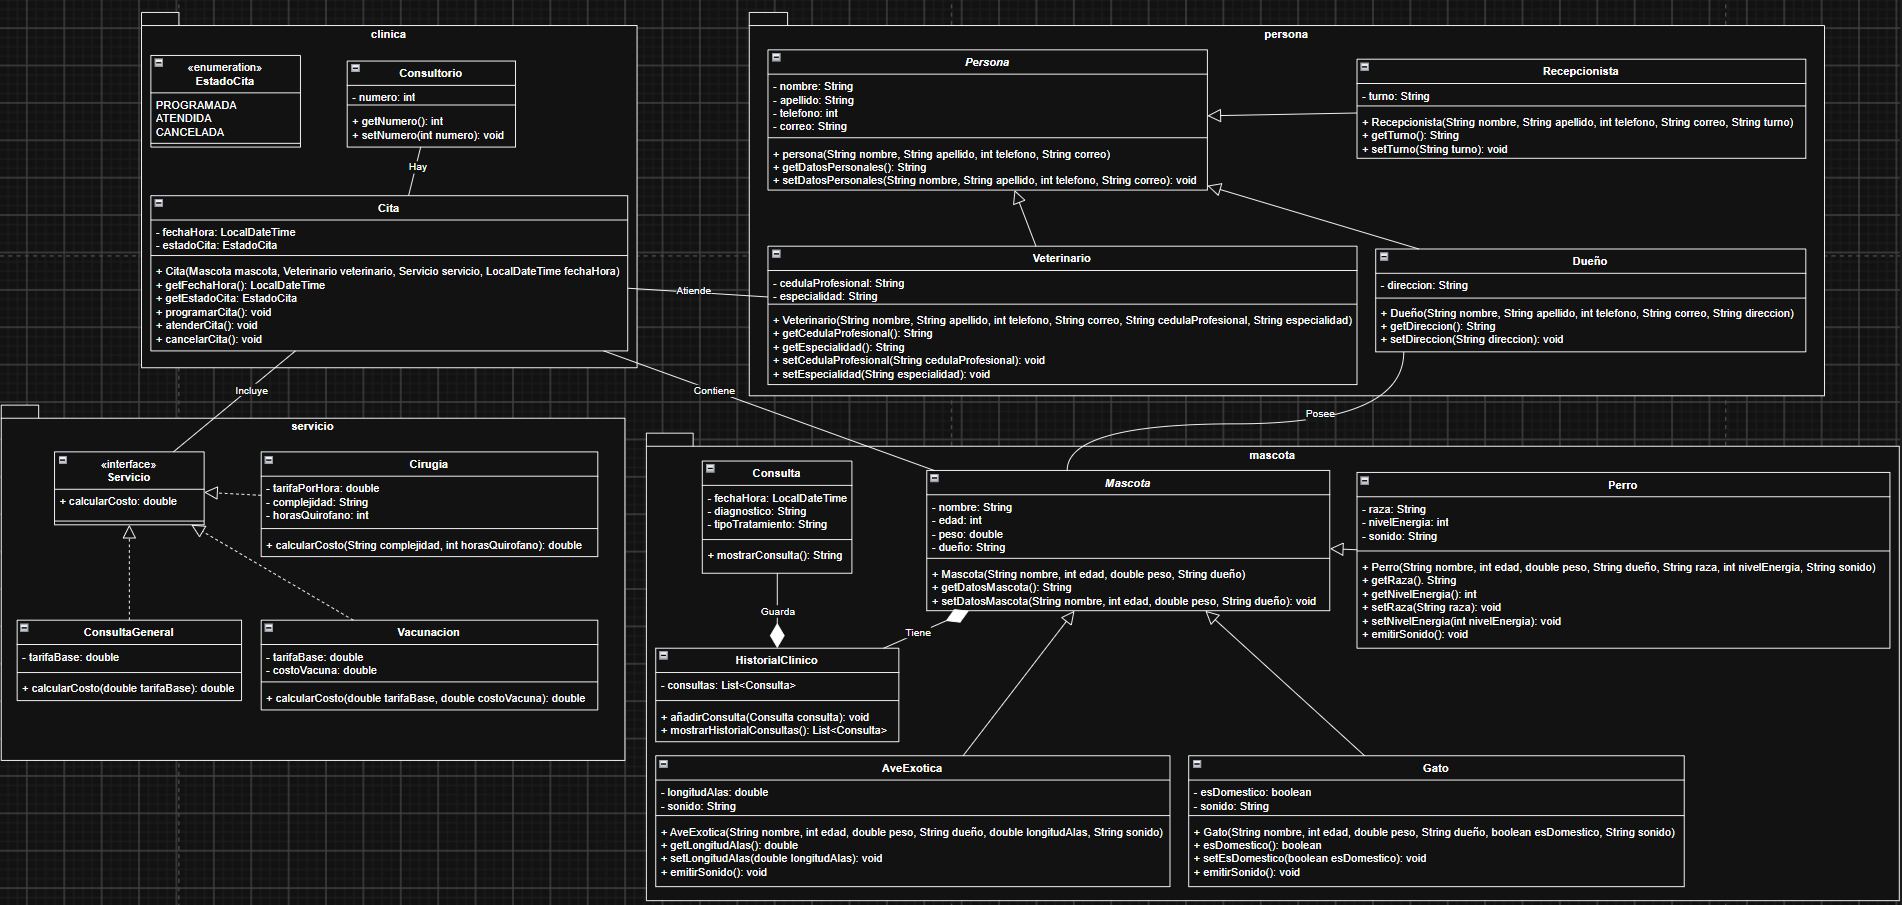
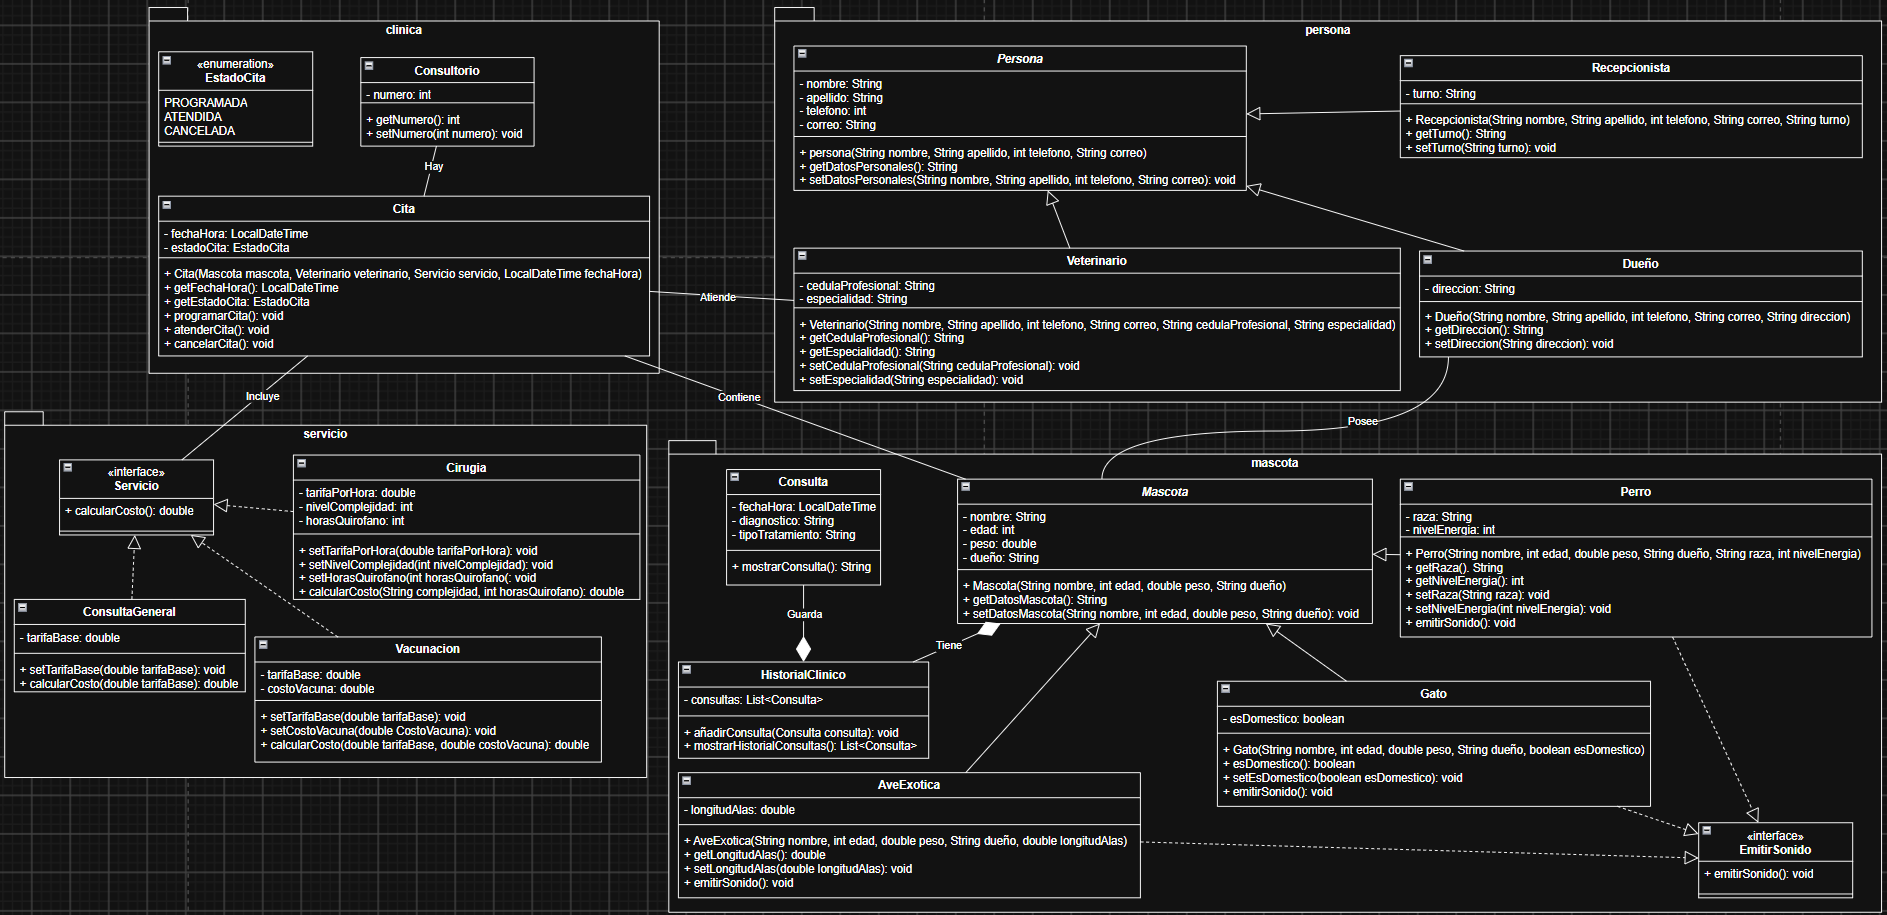
v2.0.1. Corregir tabla de análisis y diagrama de clases

Changed region(s): [[0.0, 0.0, 1.0, 1.0], [0.8299, 0.2785, 0.8914, 0.3094], [0.9836, 0.7735, 1.0, 0.8044]]

diff --git a/docs/analisis.md b/docs/analisis.md
@@ -8,18 +8,19 @@ La tabla de análisis sirve para identificar las clases, el tipo de clase, atrib
 | 3  | Veterinario       | Concreta                              | cedulaProfesional <br/> especialidad                 | getCedulaProfesional() <br/> getEespecialidad() <br/> setCedulaProfesional() <br/> setEspecialidad() | "Veterinario" hereda de "Persona". Tiene cédula profesional y especialidad. Son las personas que atienden las citas. |
 | 4  | Recepcionista     | Concreta                              | turno                                                | getTurno() <br/> setTurno()                                                                          | "Recepcionista" hereda de "Persona". Tiene turno. Son las personas que registran y modifican citas.                  |
 | 5  | Mascota           | Abstracta                             | nombre <br/> edad <br/> peso <br/> dueño             | getDatosMascota() <br/> setDatosMascota()                                                            | "Mascota" engloba a varios animales. Cada mascota emite un sonido.                                                   |
-| 6  | Perro             | Concreta                              | raza <br/> nivelEnergia <br/> sonido                 | getRaza() <br/> getNivelEnergia() <br/> setRaza() <br/> setNivelEnergia() <br/> emitirSonido()       | "Perro" hereda de "Mascota". Tiene raza y nivel de energía.                                                          |
-| 7  | Gato              | Concreta                              | esDomestico <br/> sonido                             | esDomestico() <br/> setEsDomestico() <br/> emitirSonido()                                            | "Gato" hereda de "Mascota". Se define si es doméstico o no.                                                          |
-| 8  | Ave exótica       | Concreta                              | longitudAlas <br/> sonido                            | getLongitudAlas() <br/> setLongitudAlas() <br/> emitirSonido()                                       | "Ave exótica" hereda de "Mascota". Tiene longitud de alas.                                                           |
-| 9  | Historial Clínico | Concreta                              | consultas                                            | añadirConsulta() <br/> mostrarHistorialConsultas()                                                   | Cada mascota tiene su historial clínico, el cual es una lista de consultas.                                          |
-| 10 | Consulta          | Concreta                              | fechaHora <br/> diagnostico <br/> tipoTratamiento    | mostrarConsulta()                                                                                    | En el historial clínico se guardan estas consultas.                                                                  |
-| 11 | Consultorio       | Concreta                              | numero                                               | getNumero() <br/> setNumero()                                                                        | En cada consultorio se atiende las citas de los dueños (clientes)                                                    |
-| 12 | Cita              | Concreta                              | fechaHora <br/> estadoCita                           | getFechaHora() <br/> getEstadoCita() <br/> programarCita() <br/> atenderCita() <br/> cancelarCita()  | Una cita relaciona a una mascota con un veterinario.                                                                 |
-| 13 | EstadoCita        | Enumeración                           | PROGRAMADA <br/> ATENDIDA <br/> CANCELADA            | -                                                                                                    | Estado de las citas.                                                                                                 |
-| 14 | Servicio          | Interfaz                              | -                                                    | calcularCosto()                                                                                      | Cada servicio de la clínica calculará el costo.                                                                      |
-| 15 | Consulta general  | Concreta                              | tarifaBase                                           | calcularCosto()                                                                                      | "Consulta general" hereda de "Servicio". Tiene tarifa base.                                                          |
-| 16 | Vacunación        | Concreta                              | tarifaBase <br/> costoVacuna                         | calcularCosto()                                                                                      | "Vacuna" hereda de "Servicio". Tiene tarifa base y un costo.                                                         |
-| 17 | Cirugía           | Concreta                              | tafiraPorHora <br/> complejidad <br/> horasQuirofano | calcularCosto()                                                                                      | "Cirugía" hereda de "Servicio". Tiene tarifa por hora, nivel de complejidad y horas del quirófano.                   |
+| 6  | Perro             | Concreta                              | raza <br/> nivelEnergia <br/>                        | getRaza() <br/> getNivelEnergia() <br/> setRaza() <br/> setNivelEnergia() <br/> emitirSonido()       | "Perro" hereda de "Mascota". Tiene raza y nivel de energía.                                                          |
+| 7  | Gato              | Concreta                              | esDomestico <br/>                                    | esDomestico() <br/> setEsDomestico() <br/> emitirSonido()                                            | "Gato" hereda de "Mascota". Se define si es doméstico o no.                                                          |
+| 8  | Ave exótica       | Concreta                              | longitudAlas <br/>                                   | getLongitudAlas() <br/> setLongitudAlas() <br/> emitirSonido()                                       | "Ave exótica" hereda de "Mascota". Tiene longitud de alas.                                                           |
+| 9  | Emitir sonido     | Abstracta                             | -                                                    | emitirSonido()                                                                                       | Cada animal (o mascota) emite un sonido distinto.                                                                    |
+| 10 | Historial Clínico | Concreta                              | consultas                                            | añadirConsulta() <br/> mostrarHistorialConsultas()                                                   | Cada mascota tiene su historial clínico, el cual es una lista de consultas.                                          |
+| 11 | Consulta          | Concreta                              | fechaHora <br/> diagnostico <br/> tipoTratamiento    | mostrarConsulta()                                                                                    | En el historial clínico se guardan estas consultas.                                                                  |
+| 12 | Consultorio       | Concreta                              | numero                                               | getNumero() <br/> setNumero()                                                                        | En cada consultorio se atiende las citas de los dueños (clientes).                                                   |
+| 13 | Cita              | Concreta                              | fechaHora <br/> estadoCita                           | getFechaHora() <br/> getEstadoCita() <br/> programarCita() <br/> atenderCita() <br/> cancelarCita()  | Una cita relaciona a una mascota con un veterinario.                                                                 |
+| 14 | EstadoCita        | Enumeración                           | PROGRAMADA <br/> ATENDIDA <br/> CANCELADA            | -                                                                                                    | Estado de las citas.                                                                                                 |
+| 15 | Servicio          | Interfaz                              | -                                                    | calcularCosto()                                                                                      | Cada servicio de la clínica calculará el costo.                                                                      |
+| 16 | Consulta general  | Concreta                              | tarifaBase                                           | setTarifaBase() <br/> calcularCosto()                                                                | "Consulta general" hereda de "Servicio". Tiene tarifa base.                                                          |
+| 17 | Vacunación        | Concreta                              | tarifaBase <br/> costoVacuna                         | setTarifaBase() <br/> setCostoVacuna() <br/> calcularCosto()                                         | "Vacuna" hereda de "Servicio". Tiene tarifa base y un costo.                                                         |
+| 18 | Cirugía           | Concreta                              | tafiraPorHora <br/> complejidad <br/> horasQuirofano | setTarifaPorHora() <br/> setNivelComplejidad() <br/> setHorasQuirofano()![img.png](diagramas/PetCare.%20Diagrama%20de%20clases.png) <br/> calcularCosto()       | "Cirugía" hereda de "Servicio". Tiene tarifa por hora, nivel de complejidad y horas del quirófano.                   |
 
 # Clases descartadas
 Descarté la clase candidata "Clínica", ya que no indican procedimientos ni información relevante a modelar, y descarté la clase candidata "Comprobante", ya que un comprobante nace de la toma de otros datos de otras tablas (o de otras clases).
